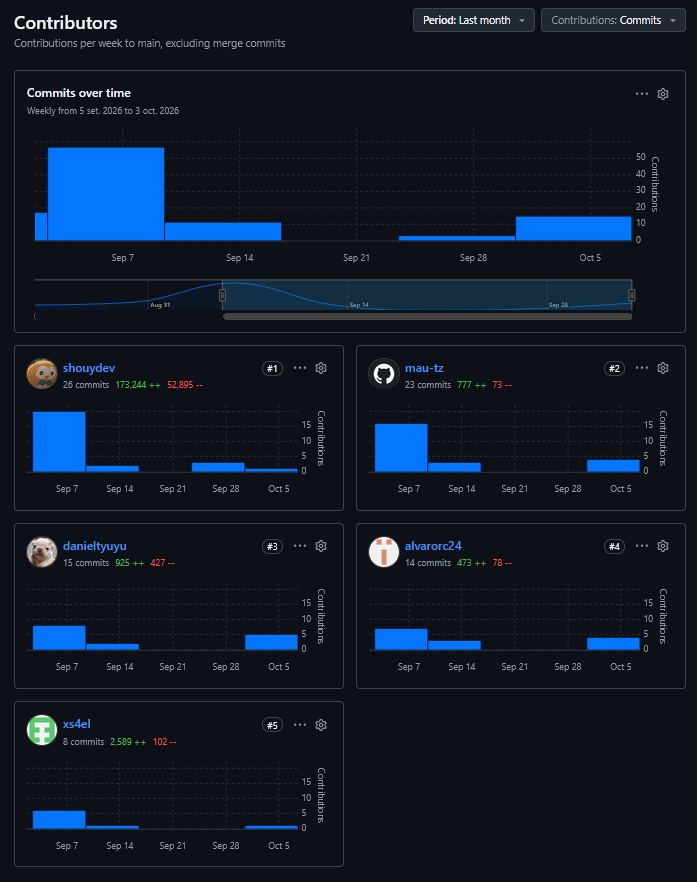
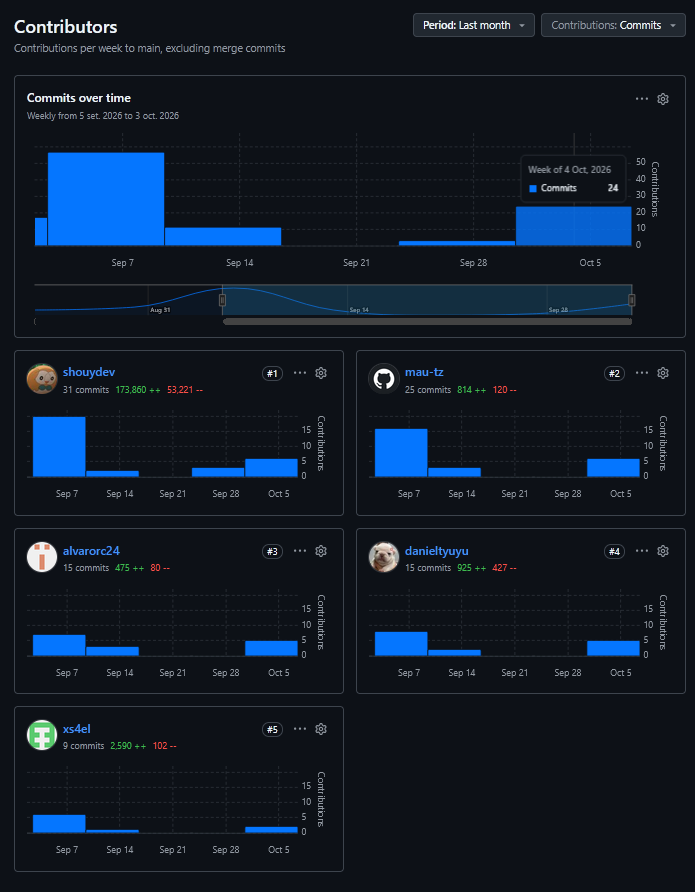
docs: update tb1 contributors insight
- Modified:
  - report/assets/collaboration-insights/tb1-github-contributors.png:
    - Update screenshot of GitHub contributor metrics for the TB1 milestone.
  - report/front-matter/03-project-report-collaboration-insights.md:
    - Adjust width scaling to 78% for TB1 contributors graph.
    - Normalize bold-italic formatting and note prefixes for figures.

diff --git a/report/front-matter/03-project-report-collaboration-insights.md b/report/front-matter/03-project-report-collaboration-insights.md
@@ -38,23 +38,23 @@ La redacción y diagramación del informe contó con la participación activa de
 
 Las siguientes figuras certifican la trazabilidad, la frecuencia de commits y la colaboración del equipo en el repositorio de documentación durante el ciclo de desarrollo del informe.
 
-***Métricas de Contribuidores y Frecuencia de Commits en GitHub***
+**_Métricas de Contribuidores y Frecuencia de Commits en GitHub_**
 
 ![](report/assets/collaboration-insights/av1-github-contributors.png){width=100%}
 
-*Nota.* Gráfico de contribuciones individuales del repositorio atelier-report en GitHub.
+_Nota._ Gráfico de contribuciones individuales del repositorio atelier-report en GitHub.
 
-***Red de Ramas e Integraciones en GitHub***
+**_Red de Ramas e Integraciones en GitHub_**
 
 ![](report/assets/collaboration-insights/av1-github-network-frequency.png){width=100%}
 
-*Nota.* Grafo de commits y ramas integradas sobre el historial del repositorio en GitHub.
+_Nota._ Grafo de commits y ramas integradas sobre el historial del repositorio en GitHub.
 
-***Registro Cronológico de Commits en GitHub***
+**_Registro Cronológico de Commits en GitHub_**
 
 ![](report/assets/collaboration-insights/av1-github-commits-log.png){width=100%}
 
-*Nota.* Registro cronológico de commits que certifica la autoría y coherencia con el registro de versiones del informe.
+_Nota._ Registro cronológico de commits que certifica la autoría y coherencia con el registro de versiones del informe.
 
 \newpage
 
@@ -82,22 +82,22 @@ La elaboración, estructuración y maquetación de los capítulos incorporados e
 
 Las siguientes figuras certifican la trazabilidad, la frecuencia de commits y la colaboración del equipo en el repositorio de documentación durante el ciclo de desarrollo correspondiente al hito TB1.
 
-***Métricas de Contribuidores y Frecuencia de Commits en GitHub para el TB1***
+**_Métricas de Contribuidores y Frecuencia de Commits en GitHub para el TB1_**
 
 ![](report/assets/collaboration-insights/tb1-github-contributors.png){width=78%}
 
-*Nota.* Gráfico de contribuciones individuales del repositorio atelier-report en GitHub durante el hito TB1.
+_Nota._ Gráfico de contribuciones individuales del repositorio atelier-report en GitHub durante el hito TB1.
 
-***Red de Ramas e Integraciones en GitHub para el TB1***
+**_Red de Ramas e Integraciones en GitHub para el TB1_**
 
 ![](report/assets/collaboration-insights/tb1-github-network-frequency.png){width=100%}
 
-*Nota.* Grafo de commits y ramas integradas sobre el historial del repositorio en GitHub durante el hito TB1.
+_Nota._ Grafo de commits y ramas integradas sobre el historial del repositorio en GitHub durante el hito TB1.
 
-***Registro Cronológico de Commits en GitHub para el TB1***
+**_Registro Cronológico de Commits en GitHub para el TB1_**
 
 ![](report/assets/collaboration-insights/tb1-github-commits-log.png){width=100%}
 
-*Nota.* Registro cronológico de commits que certifica la autoría y coherencia con el registro de versiones del informe para el hito TB1.
+_Nota._ Registro cronológico de commits que certifica la autoría y coherencia con el registro de versiones del informe para el hito TB1.
 
 \newpage
